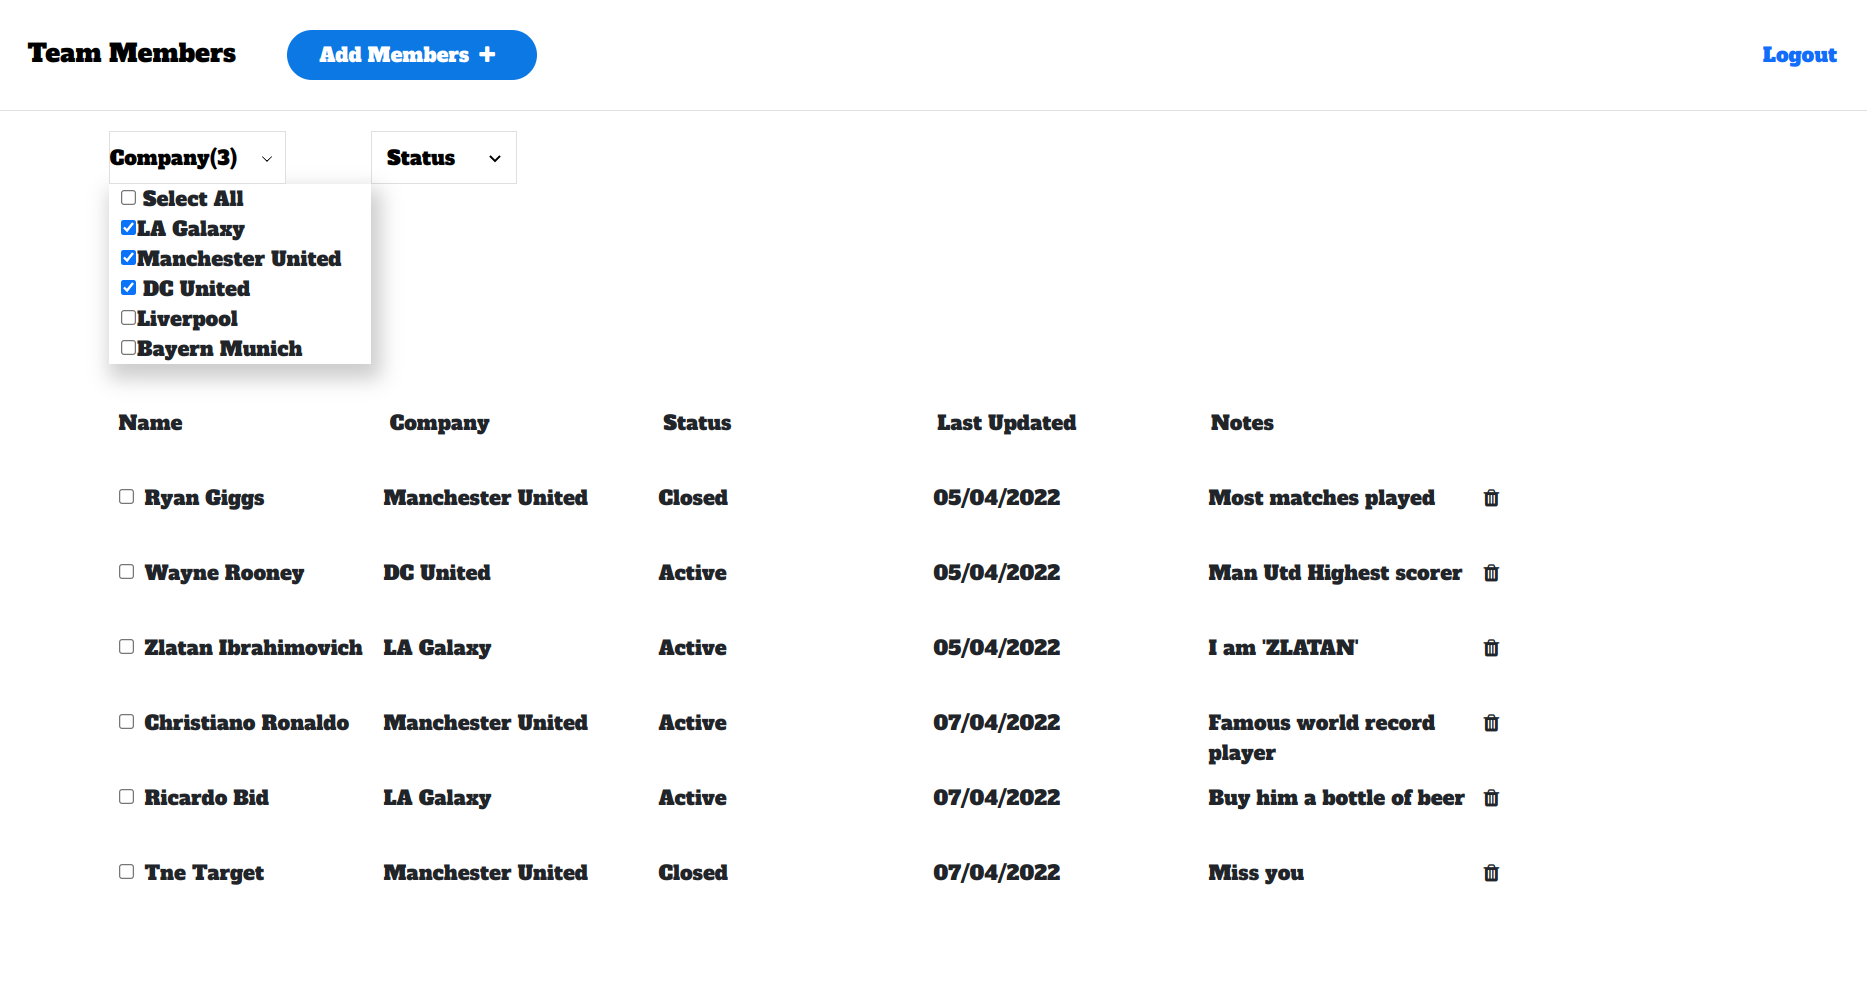
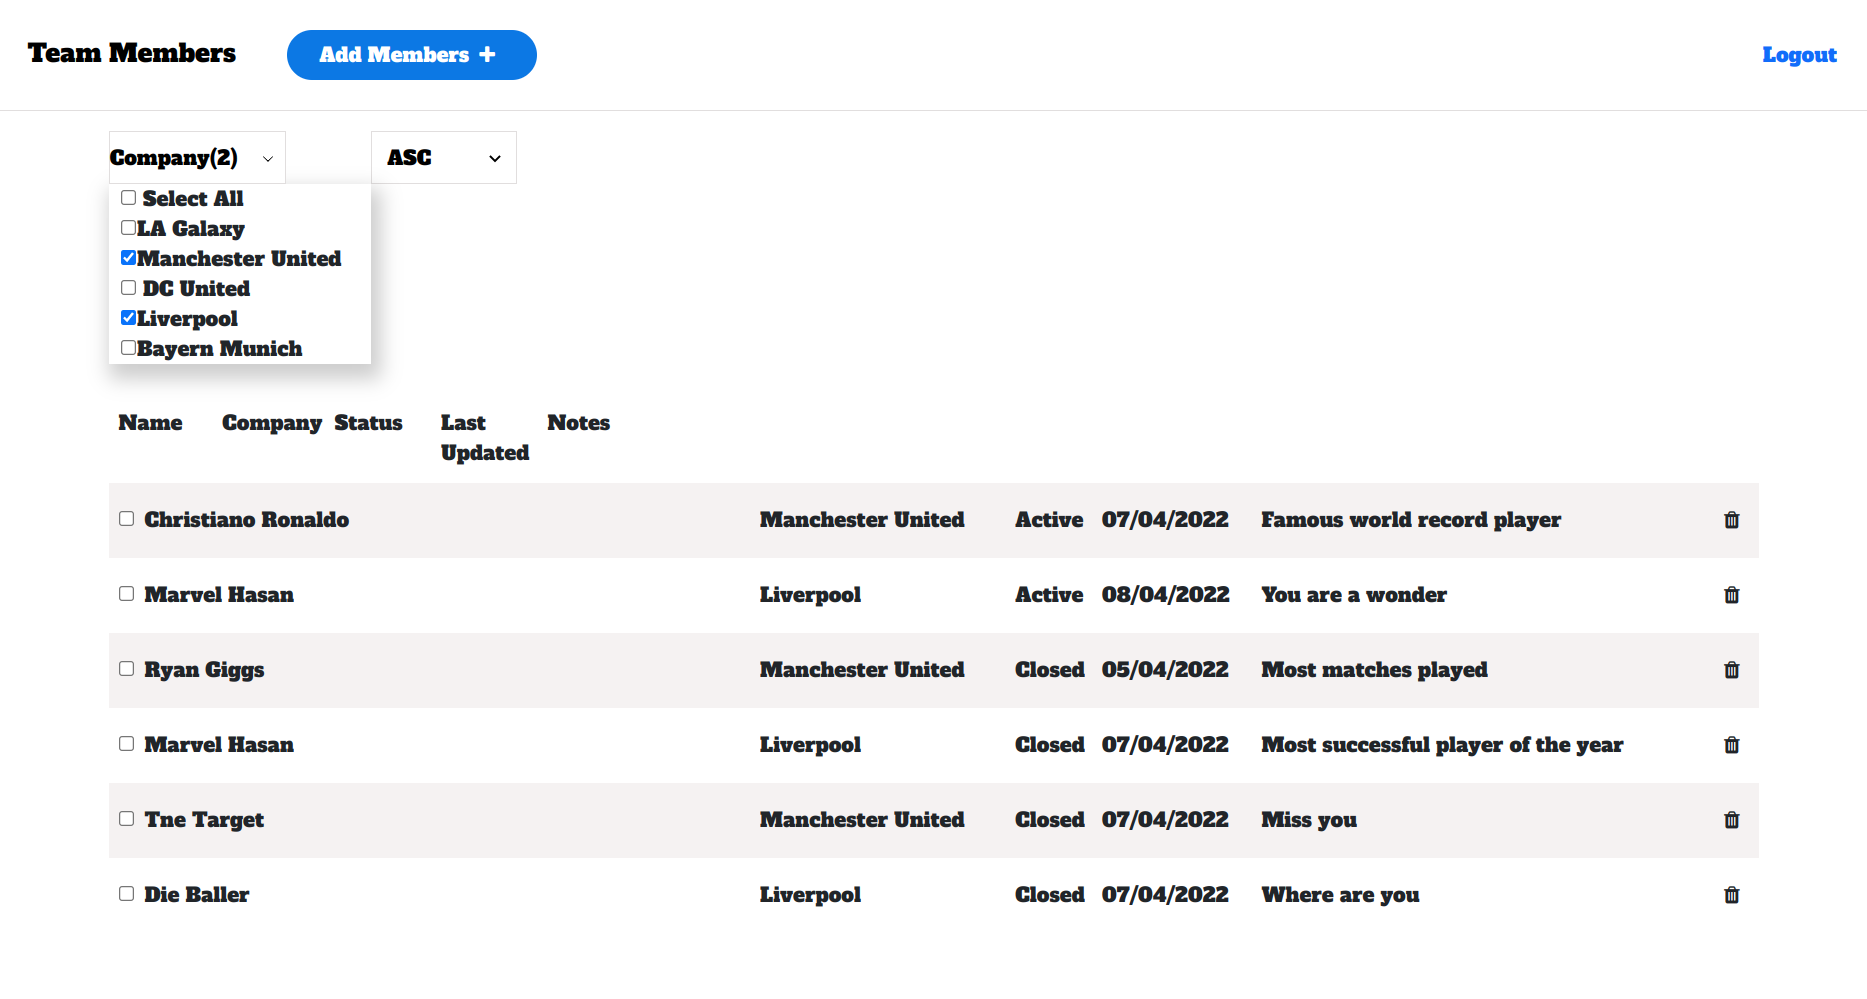
Further styling

diff --git a/src/components/MemberItem.jsx b/src/components/MemberItem.jsx
@@ -2,12 +2,13 @@ import React from 'react';
 import { useDispatch, useSelector } from 'react-redux';
 import PropTypes from 'prop-types';
 import moment from 'moment';
+import cx from 'classnames';
 import MemberService from '../services/member.service';
 import { removeMember } from '../actions/member';
 import { setMessage } from '../actions/message';
 import authHeader from '../services/auth.header';
 
-const MemberItem = ({ item }) => {
+const MemberItem = ({ item, highlight }) => {
   const { id, name, company, status, updatedAt, notes, createdAt } = item;
   let dateUpdated = createdAt;
   if (updatedAt) {
@@ -48,7 +49,7 @@ const MemberItem = ({ item }) => {
   };
 
   return (
-    <tr className="d-flex">
+    <tr className={(cx('d-flex'), highlight && 'highlighted')}>
       <td>
         <input
           className="mx-2"
@@ -63,7 +64,11 @@ const MemberItem = ({ item }) => {
       <td>{moment(dateUpdated).format('DD/MM/YYYY')}</td>
       <td>{notes}</td>
       <td>
-        <i onClick={handleRemove} className="fa fa-trash" aria-hidden="true" />
+        <i
+          onClick={handleRemove}
+          className="fa fa-trash mx-2"
+          aria-hidden="true"
+        />
       </td>
     </tr>
   );
@@ -72,6 +77,7 @@ const MemberItem = ({ item }) => {
 MemberItem.propTypes = {
   /* eslint-disable */
   item: PropTypes.objectOf(PropTypes.any).isRequired,
+  highlight: PropTypes.bool,
   /* eslint-enable */
 };
 export default MemberItem;

diff --git a/src/index.css b/src/index.css
@@ -1,27 +1,13 @@
 body {
   margin: 0;
-  font-family:
-    -apple-system,
-    BlinkMacSystemFont,
-    'Segoe UI',
-    'Roboto',
-    'Oxygen',
-    'Ubuntu',
-    'Cantarell',
-    'Fira Sans',
-    'Droid Sans',
-    'Helvetica Neue',
+  font-family: -apple-system, BlinkMacSystemFont, 'Segoe UI', 'Roboto', 'Oxygen',
+    'Ubuntu', 'Cantarell', 'Fira Sans', 'Droid Sans', 'Helvetica Neue',
     sans-serif;
   -webkit-font-smoothing: antialiased;
   -moz-osx-font-smoothing: grayscale;
 }
 
 code {
-  font-family:
-    source-code-pro,
-    Menlo,
-    Monaco,
-    Consolas,
-    'Courier New',
+  font-family: source-code-pro, Menlo, Monaco, Consolas, 'Courier New',
     monospace;
 }

diff --git a/src/containers/Home.js b/src/containers/Home.js
@@ -85,8 +85,12 @@ const Home = () => {
         <tbody>
           {sortedMembers && sortedMembers.length > 0 ? (
             <>
-              {sortedMembers.map((member) => (
-                <Member key={`member-${uuid()}`} item={member} />
+              {sortedMembers.map((member, idx) => (
+                <Member
+                  key={`member-${uuid()}`}
+                  item={member}
+                  highlight={idx % 2 === 0}
+                />
               ))}
             </>
           ) : null}

diff --git a/src/App.css b/src/App.css
@@ -132,6 +132,10 @@ textarea {
   padding-left: 2%;
 }
 
+.highlighted {
+  background-color: rgb(245, 242, 242);
+}
+
 @media (max-width: 500px) {
   .main {
     min-width: 500px;
